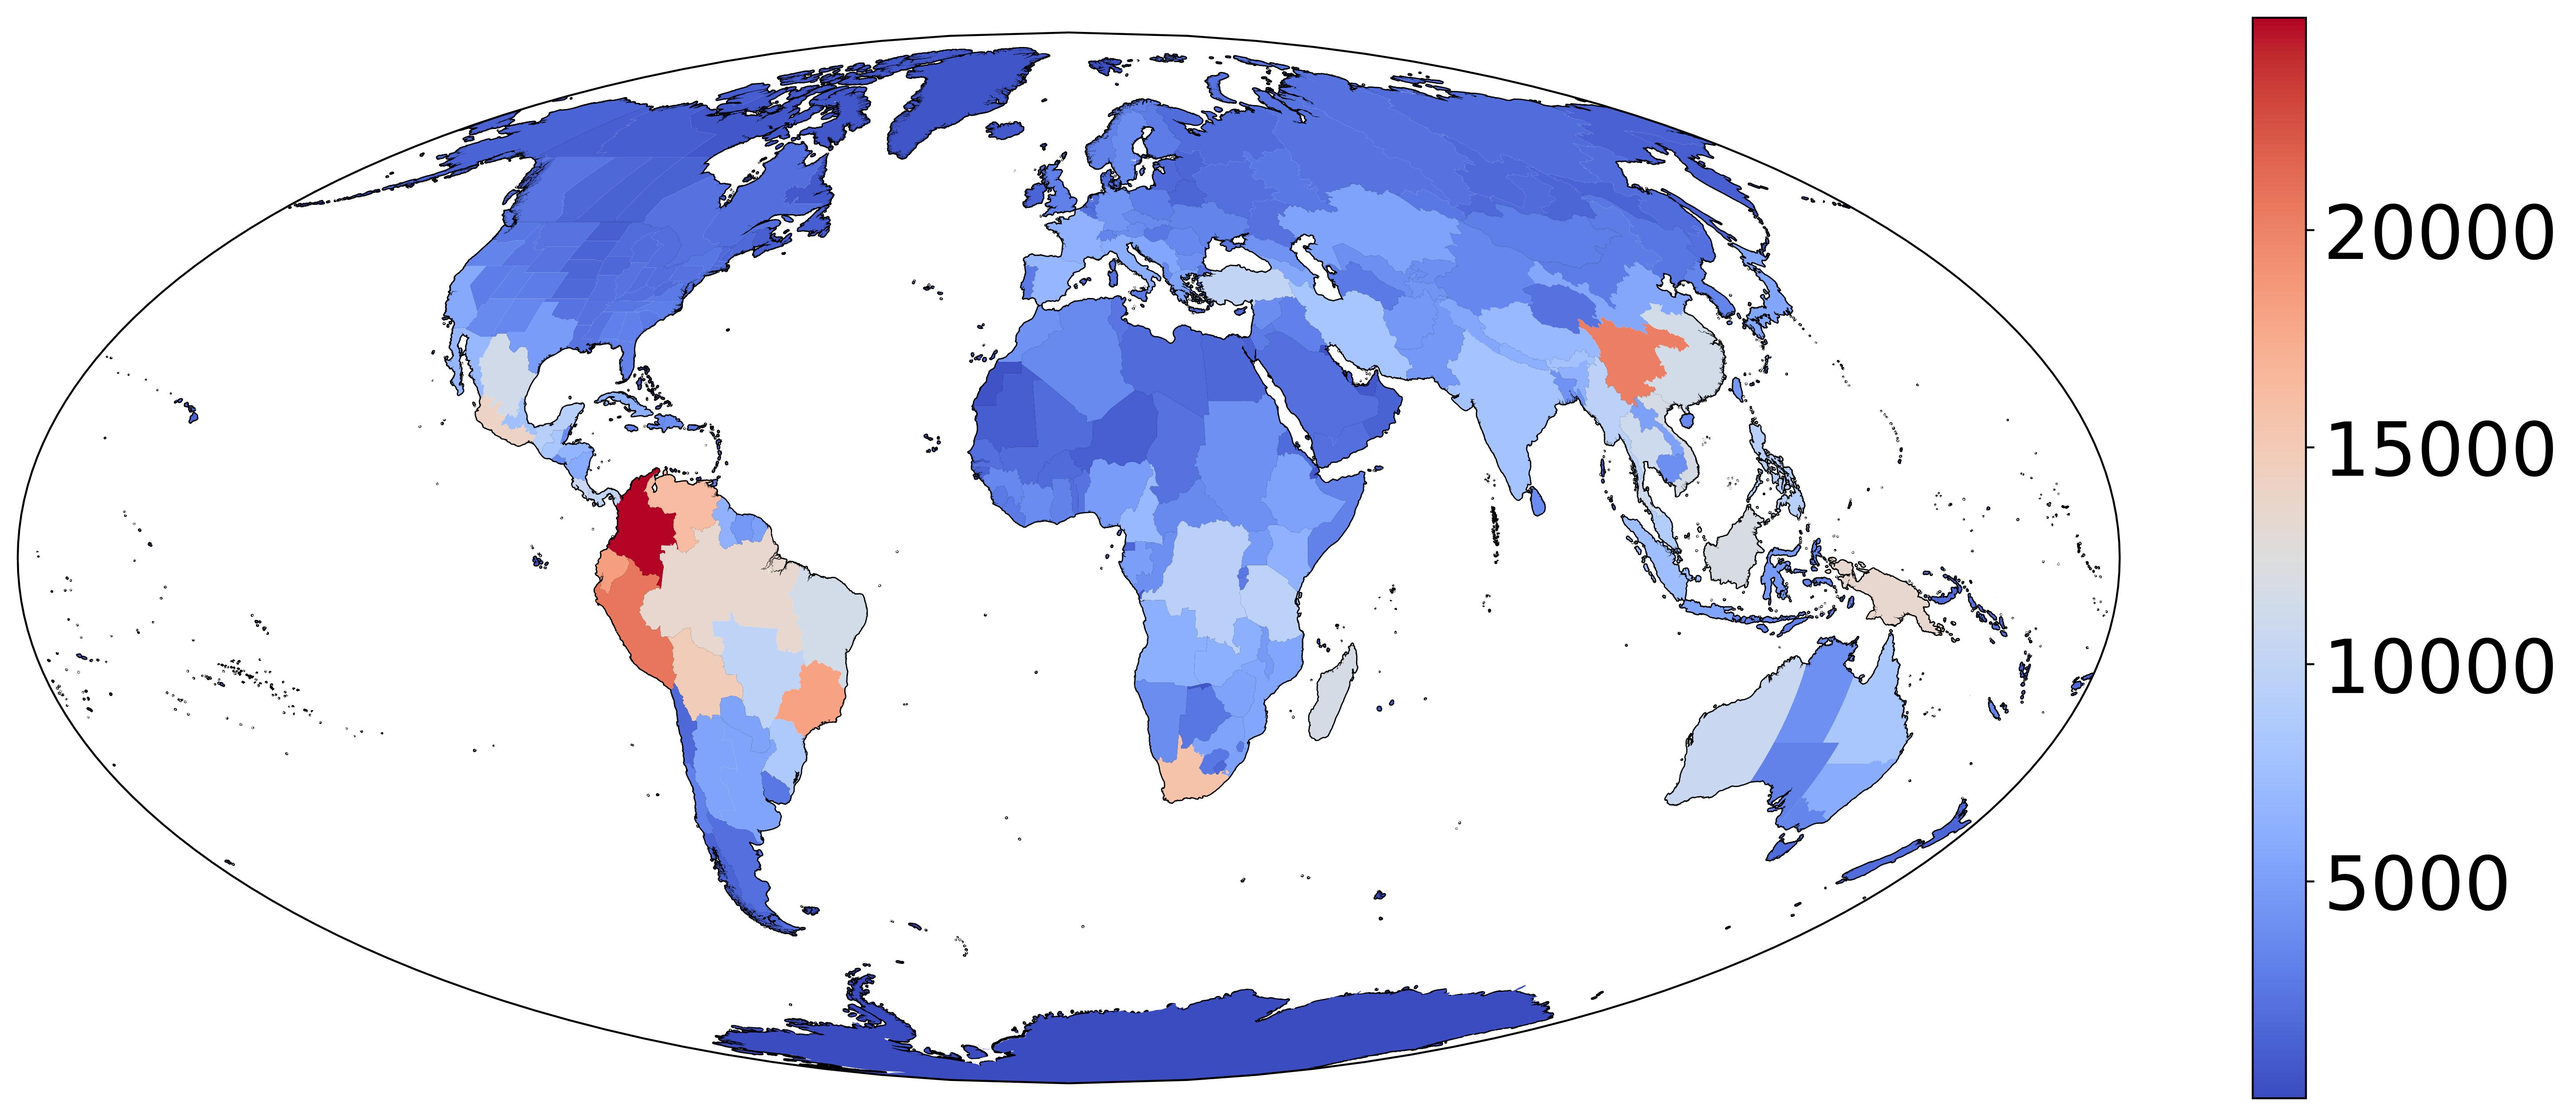
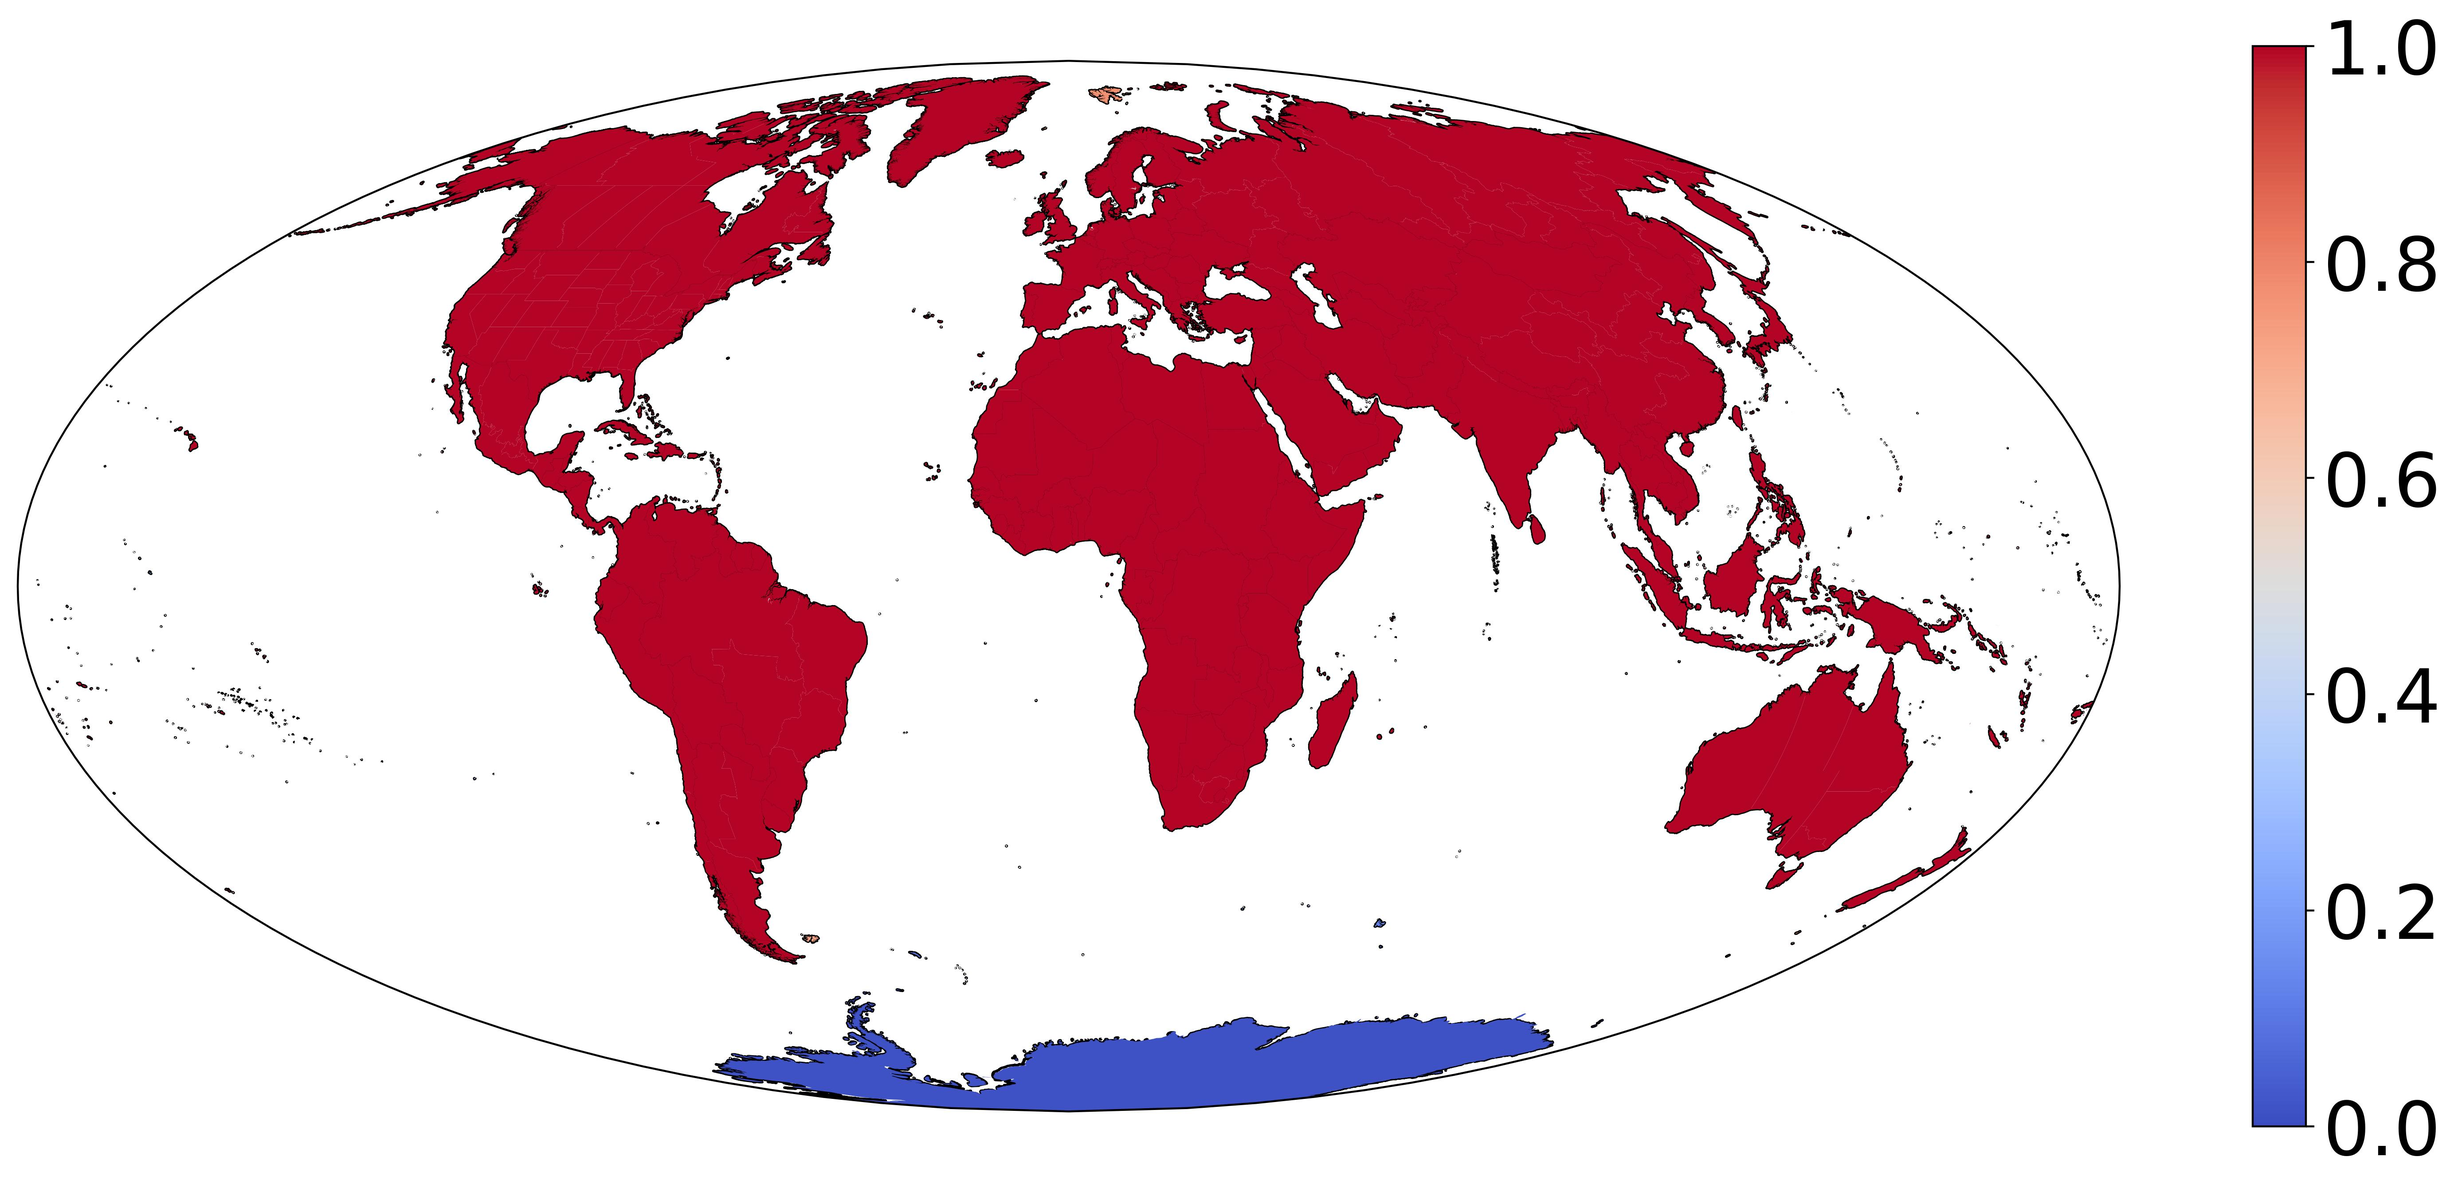
Fix colour norming

diff --git a/wcvp_download/plot_distributions.py b/wcvp_download/plot_distributions.py
@@ -29,7 +29,8 @@ def _OHE_native_dists(df: pd.DataFrame) -> pd.DataFrame:
     return clean_df
 
 
-def get_native_region_distribution_dataframe_for_accepted_taxa(df: pd.DataFrame, acc_name_col: str, output_path: str = None, include_doubtful: bool = False,
+def get_native_region_distribution_dataframe_for_accepted_taxa(df: pd.DataFrame, acc_name_col: str, output_path: str = None,
+                                                               include_doubtful: bool = False,
                                                                include_extinct: bool = False, wcvp_version: str = None):
     '''
     Gets the number of native species in df found in each region.
@@ -84,7 +85,8 @@ def plot_native_number_accepted_taxa_in_regions(df: pd.DataFrame, acc_name_col: 
     import fiona  # Need fiona to read shapefiles
 
     df_with_region_data = get_native_region_distribution_dataframe_for_accepted_taxa(df, acc_name_col,
-                                                                                     output_path=os.path.join(output_dir, output_file_name + '_regions.csv'),
+                                                                                     output_path=os.path.join(output_dir,
+                                                                                                              output_file_name + '_regions.csv'),
                                                                                      include_doubtful=include_doubtful,
                                                                                      include_extinct=include_extinct,
                                                                                      wcvp_version=wcvp_version)
@@ -92,8 +94,11 @@ def plot_native_number_accepted_taxa_in_regions(df: pd.DataFrame, acc_name_col: 
     tdwg3_shp = shpreader.Reader(
         os.path.join(_inputs_path, 'wgsrpd-master', 'level3', 'level3.shp'))
     tdwg3_region_codes = df_with_region_data['Region'].values
-    min_val = df_with_region_data['Number of Native Species'].min()
+    # min_val = df_with_region_data['Number of Native Species'].min()
     max_val = df_with_region_data['Number of Native Species'].max()
+    min_val = 1
+    if max_val == 1:
+        min_val = 0
     norm = plt.Normalize(min_val, max_val)
     print('plotting countries')
 
@@ -104,7 +109,7 @@ def plot_native_number_accepted_taxa_in_regions(df: pd.DataFrame, acc_name_col: 
     ax.coastlines(resolution='10m')
     ax.add_feature(cfeature.BORDERS, linewidth=2)
 
-    cmap = mpl.colormaps['coolwarm']  # .cm.get_cmap('coolwarm')
+    cmap = mpl.colormaps['viridis']  # .cm.get_cmap('coolwarm')
     for country in tdwg3_shp.records():
 
         tdwg_code = country.attributes['LEVEL3_COD']

diff --git a/wcvp_download/unit_tests/test_dist_plots.py b/wcvp_download/unit_tests/test_dist_plots.py
@@ -1,12 +1,11 @@
 import os
 import unittest
 
-import numpy as np
 import pandas as pd
 import pandas.testing
 
 from wcvp_download import plot_native_number_accepted_taxa_in_regions, get_native_region_distribution_dataframe_for_accepted_taxa, get_all_taxa, \
-    wcvp_accepted_columns, wcvp_columns
+    wcvp_accepted_columns
 
 _output_path = 'test_outputs'
 
@@ -28,11 +27,12 @@ new_trait_df = trait_df[trait_df['accepted_name'].isin(new_taxa['accepted_name']
 class MyTestCase(unittest.TestCase):
 
     def test_example(self):
+        plot_native_number_accepted_taxa_in_regions(trait_df, 'accepted_name', 'test_outputs', 'testv11.jpg', wcvp_version='11')
+
+        # https://powo.science.kew.org/taxon/urn:lsid:ipni.org:names:44106-2
         plot_native_number_accepted_taxa_in_regions(
             pd.DataFrame(['Campomanesia thea', 'Campomanesia thea', 'Campomanesia thea', 'Campomanesia thea'], columns=['name']), 'name',
             'test_outputs', 'Campomanesia.jpg')
-
-        plot_native_number_accepted_taxa_in_regions(trait_df, 'accepted_name', 'test_outputs', 'testv11.jpg', wcvp_version='11')
 
         plot_native_number_accepted_taxa_in_regions(new_trait_df, 'accepted_name', 'test_outputs', 'test.jpg')
 
@@ -81,6 +81,20 @@ class MyTestCase(unittest.TestCase):
                                                     'test_outputs', 'all_species_native_distribution.jpg',
                                                     include_extinct=True)
 
+    def test_genus_example(self):
+
+        test_df = pd.DataFrame(['Campomanesia thea', 'Campomanesia thea', 'Campomanesia thea', 'Campomanesia thea'], columns=['name'])
+        test_df['Genus'] = 'Campomanesia'
+        # https://powo.science.kew.org/taxon/urn:lsid:ipni.org:names:30000055-2
+        plot_native_number_accepted_taxa_in_regions(test_df, 'Genus',
+                                                    'test_outputs', 'Campomanesia genus.jpg')
+    def test_small_example(self):
+
+
+        # https://powo.science.kew.org/taxon/urn:lsid:ipni.org:names:44106-2
+        plot_native_number_accepted_taxa_in_regions(
+            pd.DataFrame(['Campomanesia thea', 'Campomanesia adamantium'], columns=['name']), 'name',
+            'test_outputs', 'Campomanesia_pairs.jpg')
 
 if __name__ == '__main__':
     unittest.main()
